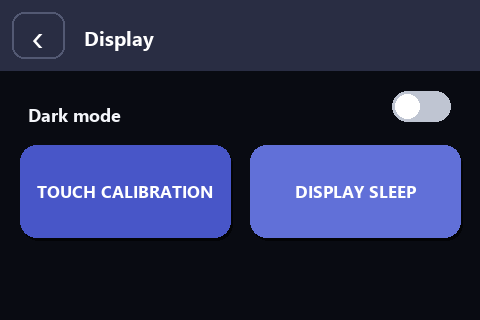
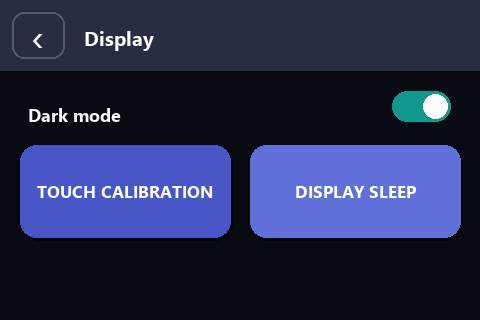
Show active dark mode in catalog

Changed region(s): [[0.8125, 0.2812, 0.9375, 0.4062]]

diff --git a/tools/ui_catalog/render_touch_catalog.py b/tools/ui_catalog/render_touch_catalog.py
@@ -123,7 +123,7 @@ def target_editor():
 
 def display():
     im=canvas(); header(im,"Display"); d=ImageDraw.Draw(im)
-    d.text((28,102),"Dark mode",font=font(18,True),fill=INK); toggle(d,392,91,False)
+    d.text((28,102),"Dark mode",font=font(18,True),fill=INK); toggle(d,392,91,BACKGROUND == DARK)
     card(d,"TOUCH CALIBRATION",(20,145,210,92),BLUE); card(d,"DISPLAY SLEEP",(250,145,210,92),BLUE_LIGHT); save("07_display",im)
     im=canvas(); header(im,"Display sleep"); d=ImageDraw.Draw(im)
     d.text((28,98),"Blank display",font=font(18,True),fill=INK); toggle(d,392,87,True)
